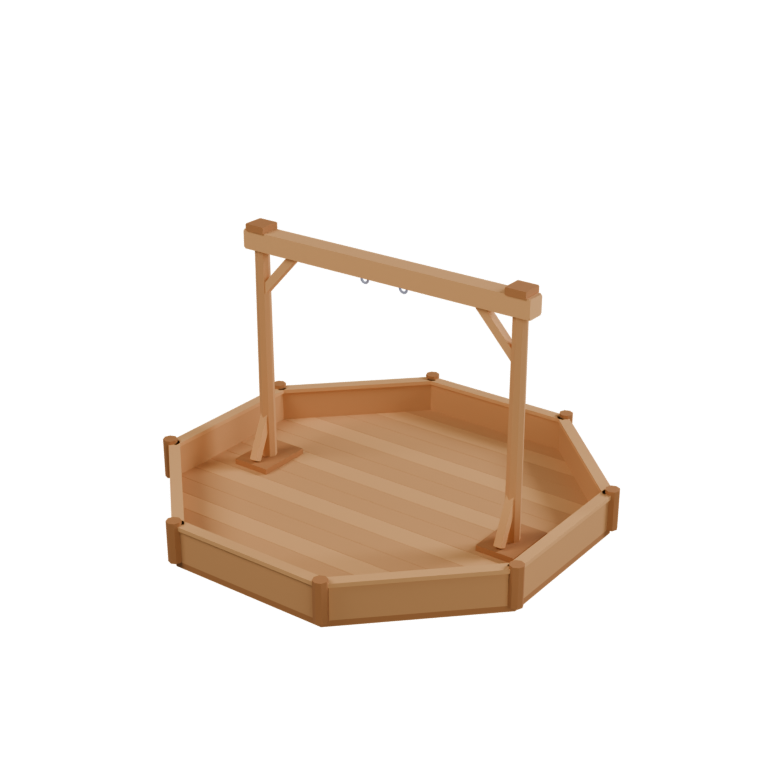
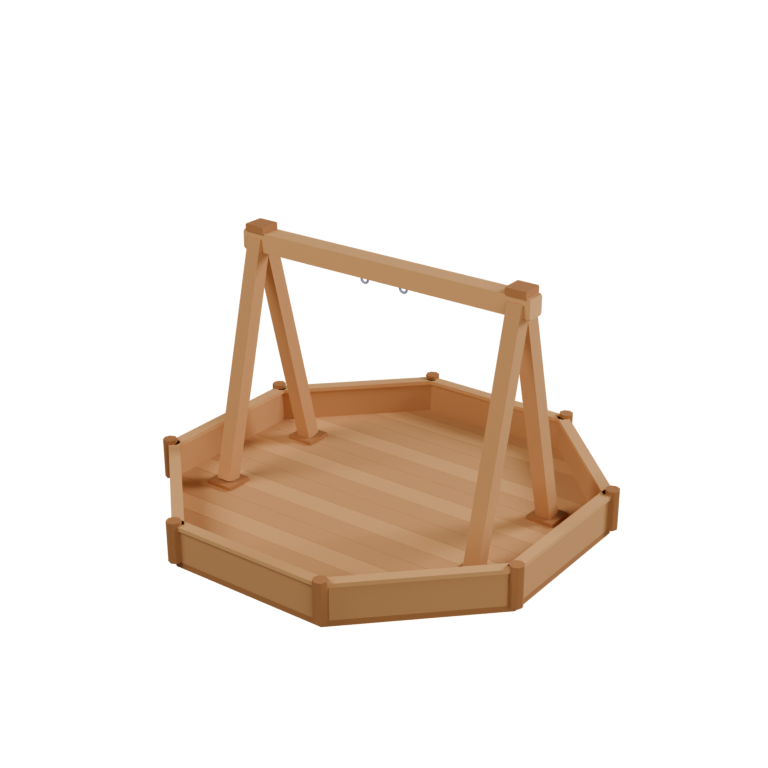
fix(art): use swing-set frame and separate starter details

Changed region(s): [[0.2188, 0.3125, 0.4375, 0.6562], [0.5938, 0.4062, 0.75, 0.75]]

diff --git a/tools/blender/glassclash_blender.py b/tools/blender/glassclash_blender.py
@@ -18,7 +18,8 @@ Main functions
     export_clash_stand()                 builds it and exports to assets/blender/map/
 
 Conventions (docs/art/ART_BIBLE.md): 1 Blender unit = 1 Roblox stud. Glassies are smooth and
-glossy; the world is low-poly, flat-shaded and coloured from one shared palette texture.
+glossy; the world is low-poly and flat-shaded. Materials here preview Studio colours;
+in-game colours and materials are assigned in Studio, without baked colour textures.
 Builders use a "GlassClash" collection; batch exports use isolated asset scenes and
 collections, preserving your other objects and your original active scene.
 """
@@ -70,9 +71,12 @@ COLLECTION = "GlassClash"
 
 def gc_collection(name=None):
     name = name or COLLECTION
-    col = bpy.data.collections.get(name)
+    # Collection datablock names are global, but builders must stay in the asset scene.
+    col = next((c for c in bpy.context.scene.collection.children
+                if c.name == name or c.get("gc_collection_key") == name), None)
     if col is None:
         col = bpy.data.collections.new(name)
+        col["gc_collection_key"] = name
         bpy.context.scene.collection.children.link(col)
     return col
 
@@ -200,9 +204,63 @@ STARTER_PROFILES = {
 def build_starter(gid):
     """Builds a chunky starter with its origin at the top-centre hang point."""
     spec = STARTER_PROFILES[gid]
-    obj = lathe(f"{gid}_Body", spec["profile"], spec["segments"], spec["flat"])
+    profile = spec["profile"]
+    hang_z = max(z for _, z in profile)
+    if gid in ("pop", "jam"):
+        # Caps/lids are separate Studio-colourable meshes sharing the hang origin.
+        cut_z = 2.20 if gid == "pop" else 1.65
+        profile = [(r, z) for r, z in profile if z <= cut_z] + [(0.0, cut_z)]
+    obj = lathe(f"{gid}_Body", profile, spec["segments"], spec["flat"], hang_z=hang_z)
     obj["glassy_id"] = gid
     return obj
+
+
+def preview_solid_material(name, tint, metallic=0.0, roughness=0.3):
+    """Untextured preview only; Studio assigns the final Color/Material."""
+    mat = bpy.data.materials.get(name) or bpy.data.materials.new(name)
+    mat.use_nodes = True
+    bsdf = next(n for n in mat.node_tree.nodes if n.type == "BSDF_PRINCIPLED")
+    _set_input(bsdf, "Base Color", (*hex_to_rgb(tint), 1.0))
+    _set_input(bsdf, "Metallic", metallic)
+    _set_input(bsdf, "Roughness", roughness)
+    return mat
+
+
+def build_starter_details(gid):
+    details = []
+    if gid == "pop":
+        cap = lathe("Cap", [(0, 2.20), (0.29, 2.20), (0.34, 2.23),
+                             (0.34, 2.38), (0.30, 2.46), (0, 2.46)], hang_z=2.46)
+        assign_material([cap], preview_solid_material("GC_PopCap", "#F33142", metallic=0.1))
+        cap["studio_color"] = "#F33142"
+        cap["studio_material"] = "SmoothPlastic"
+        details.append(cap)
+        # Five lightweight bubble meshes, all below the glass surface.
+        for i, (x, y, z, radius) in enumerate([
+            (-0.24, -0.27, -1.99, 0.085), (0.17, -0.30, -1.69, 0.070),
+            (-0.15, -0.29, -1.34, 0.095), (0.20, -0.25, -1.03, 0.065),
+            (-0.07, -0.17, -0.72, 0.055),
+        ], 1):
+            bm = bmesh.new()
+            bmesh.ops.create_uvsphere(bm, u_segments=8, v_segments=4, radius=radius)
+            bmesh.ops.translate(bm, verts=bm.verts, vec=(x, y, z))
+            bubble = set_shading(_mesh_object(f"Bubble_{i:02d}", bm), smooth=True)
+            assign_material([bubble], preview_solid_material("GC_PopBubbles", "#DEFAFF", roughness=0.08))
+            bubble["studio_color"] = "#DEFAFF"
+            bubble["studio_material"] = "Glass"
+            details.append(bubble)
+    elif gid == "jam":
+        lid = lathe("Lid", [(0, 1.65), (0.87, 1.65), (0.91, 1.72), (0.91, 1.79),
+                             (0.87, 1.82), (0.91, 1.86), (0.91, 1.96),
+                             (0.83, 2.04), (0, 2.04)], hang_z=2.04)
+        assign_material([lid], preview_solid_material("GC_JamLid", "#E8BB57", metallic=0.75, roughness=0.23))
+        lid["studio_color"] = "#E8BB57"
+        lid["studio_material"] = "Metal"
+        details.append(lid)
+    for obj in details:
+        obj["glassy_id"] = gid
+        obj["asset_role"] = "Detail"
+    return details
 
 
 # --------------------------------------------------------------------------------------------
@@ -377,16 +435,11 @@ def palette_material():
 
 
 def paint(obj, swatch):
-    """Colours a whole low-poly object with one palette swatch (all UVs on the swatch centre)."""
-    row, col, _ = PALETTE[swatch]
-    u = (col + 0.5) / PALETTE_CELLS
-    v = 1 - (row + 0.5) / PALETTE_CELLS
-    mesh = obj.data
-    if not mesh.uv_layers:
-        mesh.uv_layers.new(name="UVMap")
-    for loop_uv in mesh.uv_layers.active.data:
-        loop_uv.uv = (u, v)
-    assign_material([obj], palette_material())
+    """Preview swatch on a separate mesh; final colouring happens in Studio."""
+    tint = PALETTE[swatch][2]
+    obj["studio_color"] = tint
+    obj["studio_material"] = "SmoothPlastic"
+    assign_material([obj], preview_solid_material(f"GC_World_{swatch}", tint, roughness=0.85))
     set_shading(obj, smooth=False)
     return obj
 
@@ -456,25 +509,21 @@ def build_clash_stand(span=20.0, height=16.0, hook_gap=3.0, pen_radius=15.0):
     """
     objs = {}
     half = span / 2
-    objs["PostA"] = paint(prism_column("PostA", 0.55, height, 8, (-half, 0, 0), top_radius=0.48), "wood")
-    objs["PostB"] = paint(prism_column("PostB", 0.55, height, 8, (half, 0, 0), top_radius=0.48), "wood")
-    objs["FootA"] = paint(chamfer_box("FootA", (2.8, 4.0, 0.5), (-half, 0, 0.25)), "wood_dark")
-    objs["FootB"] = paint(chamfer_box("FootB", (2.8, 4.0, 0.5), (half, 0, 0.25)), "wood_dark")
     objs["Crossbar"] = paint(chamfer_box("Crossbar", (span + 2.0, 1.3, 1.3), (0, 0, height + 0.3), 0.12), "wood_light")
-    # Braces and end caps make the frame read as sturdy playground equipment.
+    # Two complete A-frames, splayed perpendicular to the bar like a playground swing.
+    # Keep the original post caps; no braces between legs and crossbar.
     for label, x in (("A", -half), ("B", half)):
         objs[f"PostCap{label}"] = paint(chamfer_box(f"PostCap{label}", (1.45, 1.45, 0.5), (x, 0, height + 1.15)), "wood_dark")
         for side in (-1, 1):
-            start = Vector((x, 0, height - 3.4))
-            end = Vector((x - math.copysign(2.8, x), 0, height - 0.35))
-            if side == -1:
-                start = Vector((x, -1.5, 0.6))
-                end = Vector((x, 0, 4.0))
-            name = f"Brace{label}_{side}"
-            brace = chamfer_box(name, (0.55, 0.55, (end - start).length), bevel=0.04)
-            brace.location = (start + end) / 2
-            brace.rotation_euler = (end - start).to_track_quat("Z", "Y").to_euler()
-            objs[name] = paint(brace, "wood_light")
+            start = Vector((x, side * 4.3, 0.35))
+            end = Vector((x, side * 0.25, height + 0.45))
+            name = f"Leg{label}_{'Front' if side < 0 else 'Back'}"
+            leg = chamfer_box(name, (1.05, 1.05, (end - start).length), bevel=0.07)
+            leg.location = (start + end) / 2
+            leg.rotation_euler = (end - start).to_track_quat("Z", "Y").to_euler()
+            objs[name] = paint(leg, "wood")
+            name = f"Foot{label}_{'Front' if side < 0 else 'Back'}"
+            objs[name] = paint(chamfer_box(name, (2.0, 2.0, 0.35), (x, side * 4.3, 0.175)), "wood_dark")
     for key, x in (("HookA", -hook_gap / 2), ("HookB", hook_gap / 2)):
         hook = paint(hook_ring(key, (x, 0, height - 0.65)), "metal")
         hook["attachment_position"] = [x, 0, height - 0.91]
@@ -702,20 +751,32 @@ def save_blend_copy(path):
     return os.path.abspath(path)
 
 
-def export_glassy(gid, body, shards, icon=True, blend=True):
+def export_glassy(gid, body, shards, icon=True, blend=True, details=None):
     """Writes assets/blender/glassies/<gid>/<gid>_body.fbx, <gid>_shards.fbx, the .blend copy,
     and assets/icons/<gid>.png."""
     folder = repo_path("assets", "blender", "glassies", gid)
+    details = list(details or [])
     body.name = "Body"
+    body["studio_color"] = glassy_tint(gid)
+    body["studio_material"] = "Glass"
+    body["studio_transparency"] = 0.3
     for i, s in enumerate(shards, start=1):
         s.name = f"Shard_{i:02d}"
     assign_material([body, *shards], glossy_preview_material(f"GC_Preview_{gid}", glassy_tint(gid)))
+    if gid == "pop":
+        # Slight cyan fill compensates for the dark reflection studio in the icon only.
+        bsdf = next(n for n in body.data.materials[0].node_tree.nodes if n.type == "BSDF_PRINCIPLED")
+        _set_input(bsdf, "Emission Strength", 0.18)
+        _set_input(bsdf, "Transmission Weight", 0.95)
+        bpy.context.scene.view_settings.view_transform = "Standard"
     out = {
         "body": export_fbx([body], os.path.join(folder, f"{gid}_body.fbx")),
         "shards": export_fbx(shards, os.path.join(folder, f"{gid}_shards.fbx")),
     }
+    if details:
+        out["details"] = export_fbx(details, os.path.join(folder, f"{gid}_details.fbx"))
     if icon:
-        out["icon"] = render_icon([body], repo_path("assets", "icons", f"{gid}.png"), glassy_tint(gid))
+        out["icon"] = render_icon([body, *details], repo_path("assets", "icons", f"{gid}.png"))
     if blend:
         for s in shards:
             s.hide_render = True
@@ -741,7 +802,6 @@ def export_clash_stand(icon=True):
             out = {"fbx": export_fbx(objs.values(), os.path.join(folder, "clash_stand.fbx"))}
             if icon:
                 out["preview"] = render_icon(objs.values(), os.path.join(folder, "clash_stand_preview.png"), size=768)
-            palette_image().pack()
             out["blend"] = save_blend_copy(os.path.join(folder, "clash_stand.blend"))
             return out
     finally:
@@ -774,14 +834,14 @@ def self_check():
     return report
 
 
-def build_all_starters(pieces=16):
+def build_all_starters(pieces=16, gids=("pop", "jam", "prism")):
     """Builds each starter in an isolated scene without clearing existing work."""
     global COLLECTION
     results = {}
     previous_scene = bpy.context.window.scene
     previous_collection = COLLECTION
     try:
-        for gid in ("pop", "jam", "prism"):
+        for gid in gids:
             scene = bpy.data.scenes.new(f"GlassClash_{gid}")
             scene.unit_settings.system = "NONE"
             scene.unit_settings.scale_length = 1.0
@@ -790,11 +850,14 @@ def build_all_starters(pieces=16):
             with bpy.context.temp_override(scene=scene, view_layer=scene.view_layers[0]):
                 body = build_starter(gid)
                 shards = make_shards(body, pieces, seed=sum(map(ord, gid)))
-                results[gid] = export_glassy(gid, body, shards)
+                details = build_starter_details(gid)
+                results[gid] = export_glassy(gid, body, shards, details=details)
             # Blender names are global across scenes; free export names for the next asset.
             body.name = f"{gid}_Body"
             for i, shard in enumerate(shards, start=1):
                 shard.name = f"{gid}_Shard_{i:02d}"
+            for detail in details:
+                detail.name = f"{gid}_{detail.name}"
     finally:
         bpy.context.window.scene = previous_scene
         COLLECTION = previous_collection

diff --git a/docs/art/ART_BIBLE.md b/docs/art/ART_BIBLE.md
@@ -6,7 +6,7 @@
 
 - **Look:** flat shading, faceted surfaces, chunky readable silhouettes, slightly exaggerated proportions, soft rounded bevels only on big shapes. Think toy diorama, not realism.
 - **Built mostly in Blender** as a **modular kit** (ground tiles, paths, cliffs, fences, trees, bins, crates, buildings, props), assembled into layouts, then exported in chunks. Studio is used for placement fixes, lighting, gameplay objects and spawn points.
-- **Colour:** one shared **palette texture** (256×256, a grid of flat swatches). UV each face onto a swatch. Every map mesh uses the same texture, so it stays cheap and consistent. Each zone gets its own palette row (see Zones config `Palette`).
+- **Colour:** primarily set mesh `Color` and `Material` in **Studio**, as directed by the user. Keep differently coloured elements as separate meshes. Blender materials are for icon/preview rendering. Use textures only when they add useful detail; the shared 256×256 palette remains available for textured kit pieces (see Zones config `Palette`). Do not bake plain colours into textures.
 - **Matte:** environment materials are matte (`SmoothPlastic` or the palette texture, no reflectance), so glass stands out.
 - **Budgets (triangles):** small props 50–500, medium props 500–2,000, buildings 1,000–5,000, terrain chunks up to 8,000. Stay under Roblox's per-mesh triangle limit and split big pieces.
 - **Collision:** decorative props `CanCollide = false`. Walkable chunks use `CollisionFidelity = Hull` or simple invisible boxes. Never `PreciseConvexDecomposition` on big meshes.
@@ -19,6 +19,7 @@
 - **Smooth shading** (unlike the world). Up to 1,500 tris (3,000 for Legendary/Mythic).
 - **Hang point:** the object's **origin** sits where the string attaches (bottle neck, sword hilt, pumpkin stem, top of a creature's head). The swing rotates around it.
 - **Shards:** 12–20 pre-broken pieces (up to 30 for Mythic) with the same origin and scale, inside faces included.
+- **Separate details:** Pop's cap/bubbles and Jam's lid export in `<id>_details.fbx`, with the same hang-point origin as Body. Apply their colours/materials in Studio; the Blender file contains untextured preview materials. Keep the core `Body` + `Shards` contract; optional `Details` is proposed for import.
 - **Evolutions** keep a family resemblance (colour, a shape cue) so kids recognise the line.
 
 ## 3. Icons and renders

diff --git a/docs/logs/DEVLOG.md b/docs/logs/DEVLOG.md
@@ -14,6 +14,18 @@ Balance sim (if balance changed):
 - ...
 ```
 
+## 2026-10-12 — Codex — M1 Step 1 art revisions
+Done:
+- Replaced the rejected upright/braced frame with four splayed A-frame swing-set legs and individual foot pads. No braces under the bar. Verified all 44 pen/plank/rail/corner/post-cap meshes are geometrically unchanged. Revised stand: 55 meshes / 1,948 triangles.
+- Pop now has brighter cyan preview glass using Tint #8FE3FF, a separate red cap, and five small internal bubbles. Jam now has a separate gold lid. Bodies exclude caps/lids; each revised glass body has 16 closed shards. All component origins coincide at the full assembly hang point. Intact budgets including details: Pop 1,344 triangles; Jam 816.
+- Exported revised .blend/body/shards/details FBX and transparent icons; re-rendered the stand. Re-imported revised FBX in Blender and verified topology, mesh counts, origins and budgets. Updated assets/blender/m1_art_validation.json. SHA256 checks confirm all four approved Prism files are unchanged.
+- Recorded the user's Studio-first colour/material direction in ART_BIBLE and DECISIONS. Stand and detail preview materials are untextured; no new colour textures. Proposed an optional Details folder for caps/lids/bubbles alongside Body and Shards (decision 15).
+- Lune and Studio RunAll both pass: 28 passed, 0 failed. No new Studio imports; asset play-testing remains deferred until art approval. Fixed cross-scene collection-name reuse in the Blender helper; preserved the original scene and prior art revisions.
+Next:
+- Await approval of revised Pop/Jam icons and swing-set preview; Prism is already approved. Then continue M1 import and gameplay implementation.
+Problems / questions for the user:
+- Art approval pending; optional Details import layout is proposed. No Accepted decision reversed, no third-party assets/plugins added.
+
 ## 2026-10-12 — Codex — M1 Step 1, art approval checkpoint
 Done:
 - Built and exported Pop (rounded soda bottle), Jam (wide screw-top jar), Prism (faceted perfume bottle with gem stopper), and a matte low-poly wooden Clash Stand with braces, metal eyelets, planked octagon floor and capped low walls.

diff --git a/docs/DECISIONS.md b/docs/DECISIONS.md
@@ -17,3 +17,5 @@ Newest at the bottom. Agents: don't reverse an **Accepted** decision without ask
 | 11 | 2026-10-12 | World is **low-poly**, built mostly in **Blender** as a modular kit. Glassies stay glossy and smooth so they pop against it. | Accepted |
 | 12 | 2026-10-12 | Code lives in this repo and syncs to Studio with **Rojo**; the world is built in Studio through the Roblox Studio MCP. | Accepted |
 | 13 | 2026-10-12 | Working names: game **Glass Clash**, collectibles **glassies**. Both can change. | Proposed |
+| 14 | 2026-10-12 | In-game colouring is primarily done in **Studio**. Blender uses untextured preview materials; textures are used only when useful. Separate cap/lid meshes allow independent Studio colours. | Accepted (user directed) |
+| 15 | 2026-10-12 | Preserve `Body` + `Shards` and add an optional `Details` folder for separate caps, lids and bubbles, exported as `<id>_details.fbx`. All parts share the glassy's hang-point origin and animate together. | Proposed |

diff --git a/assets/blender/glassies/README.md b/assets/blender/glassies/README.md
@@ -7,6 +7,12 @@ assets/blender/glassies/<id>/
   <id>.blend          source
   <id>_body.fbx       body, origin at the hang point
   <id>_shards.fbx     12-20 pre-broken pieces, same origin
+  <id>_details.fbx    optional separate cap/lid/bubble meshes, same origin
 ```
 
 Rules: ART_BIBLE section 2. Use `tools/blender/glassclash_blender.py` (build, shards, icon, export). Install Git LFS before committing .blend/.fbx.
+
+Set final in-game colours/materials in Studio. Blender materials preview the icons only.
+Pop has a red `Cap` and five internal `Bubble_*` meshes; Jam has a gold `Lid`.
+Body and its 16 shards contain glass only. Assembly tops are the hang points, including
+the separate cap/lid; all mesh origins coincide there. Prism is unchanged and approved.

diff --git a/docs/ROADMAP.md b/docs/ROADMAP.md
@@ -19,6 +19,9 @@ Owner key: **C** = Codex (code / Studio MCP), **B** = Codex with Blender MCP, **
 
 Goal: one Clash Stand, two glassies, the meter, cracks and a great shatter. **Nothing else until this feels great on a phone.**
 
+Art review: Prism approved. Revised A-frame stand, cyan Pop with red cap/bubbles,
+and Jam with separate gold lid await approval before any Studio import.
+
 - [x] **C:** Rojo connected; `ServerStorage.Tests.RunAll` passes in Studio
 - [x] **B:** low-poly Clash Stand (posts, crossbar, hooks) + octagon pen floor and low wall
 - [x] **B:** starter glassies `pop`, `jam`, `prism`: body (origin at hang point), 12–20 shards, icon
